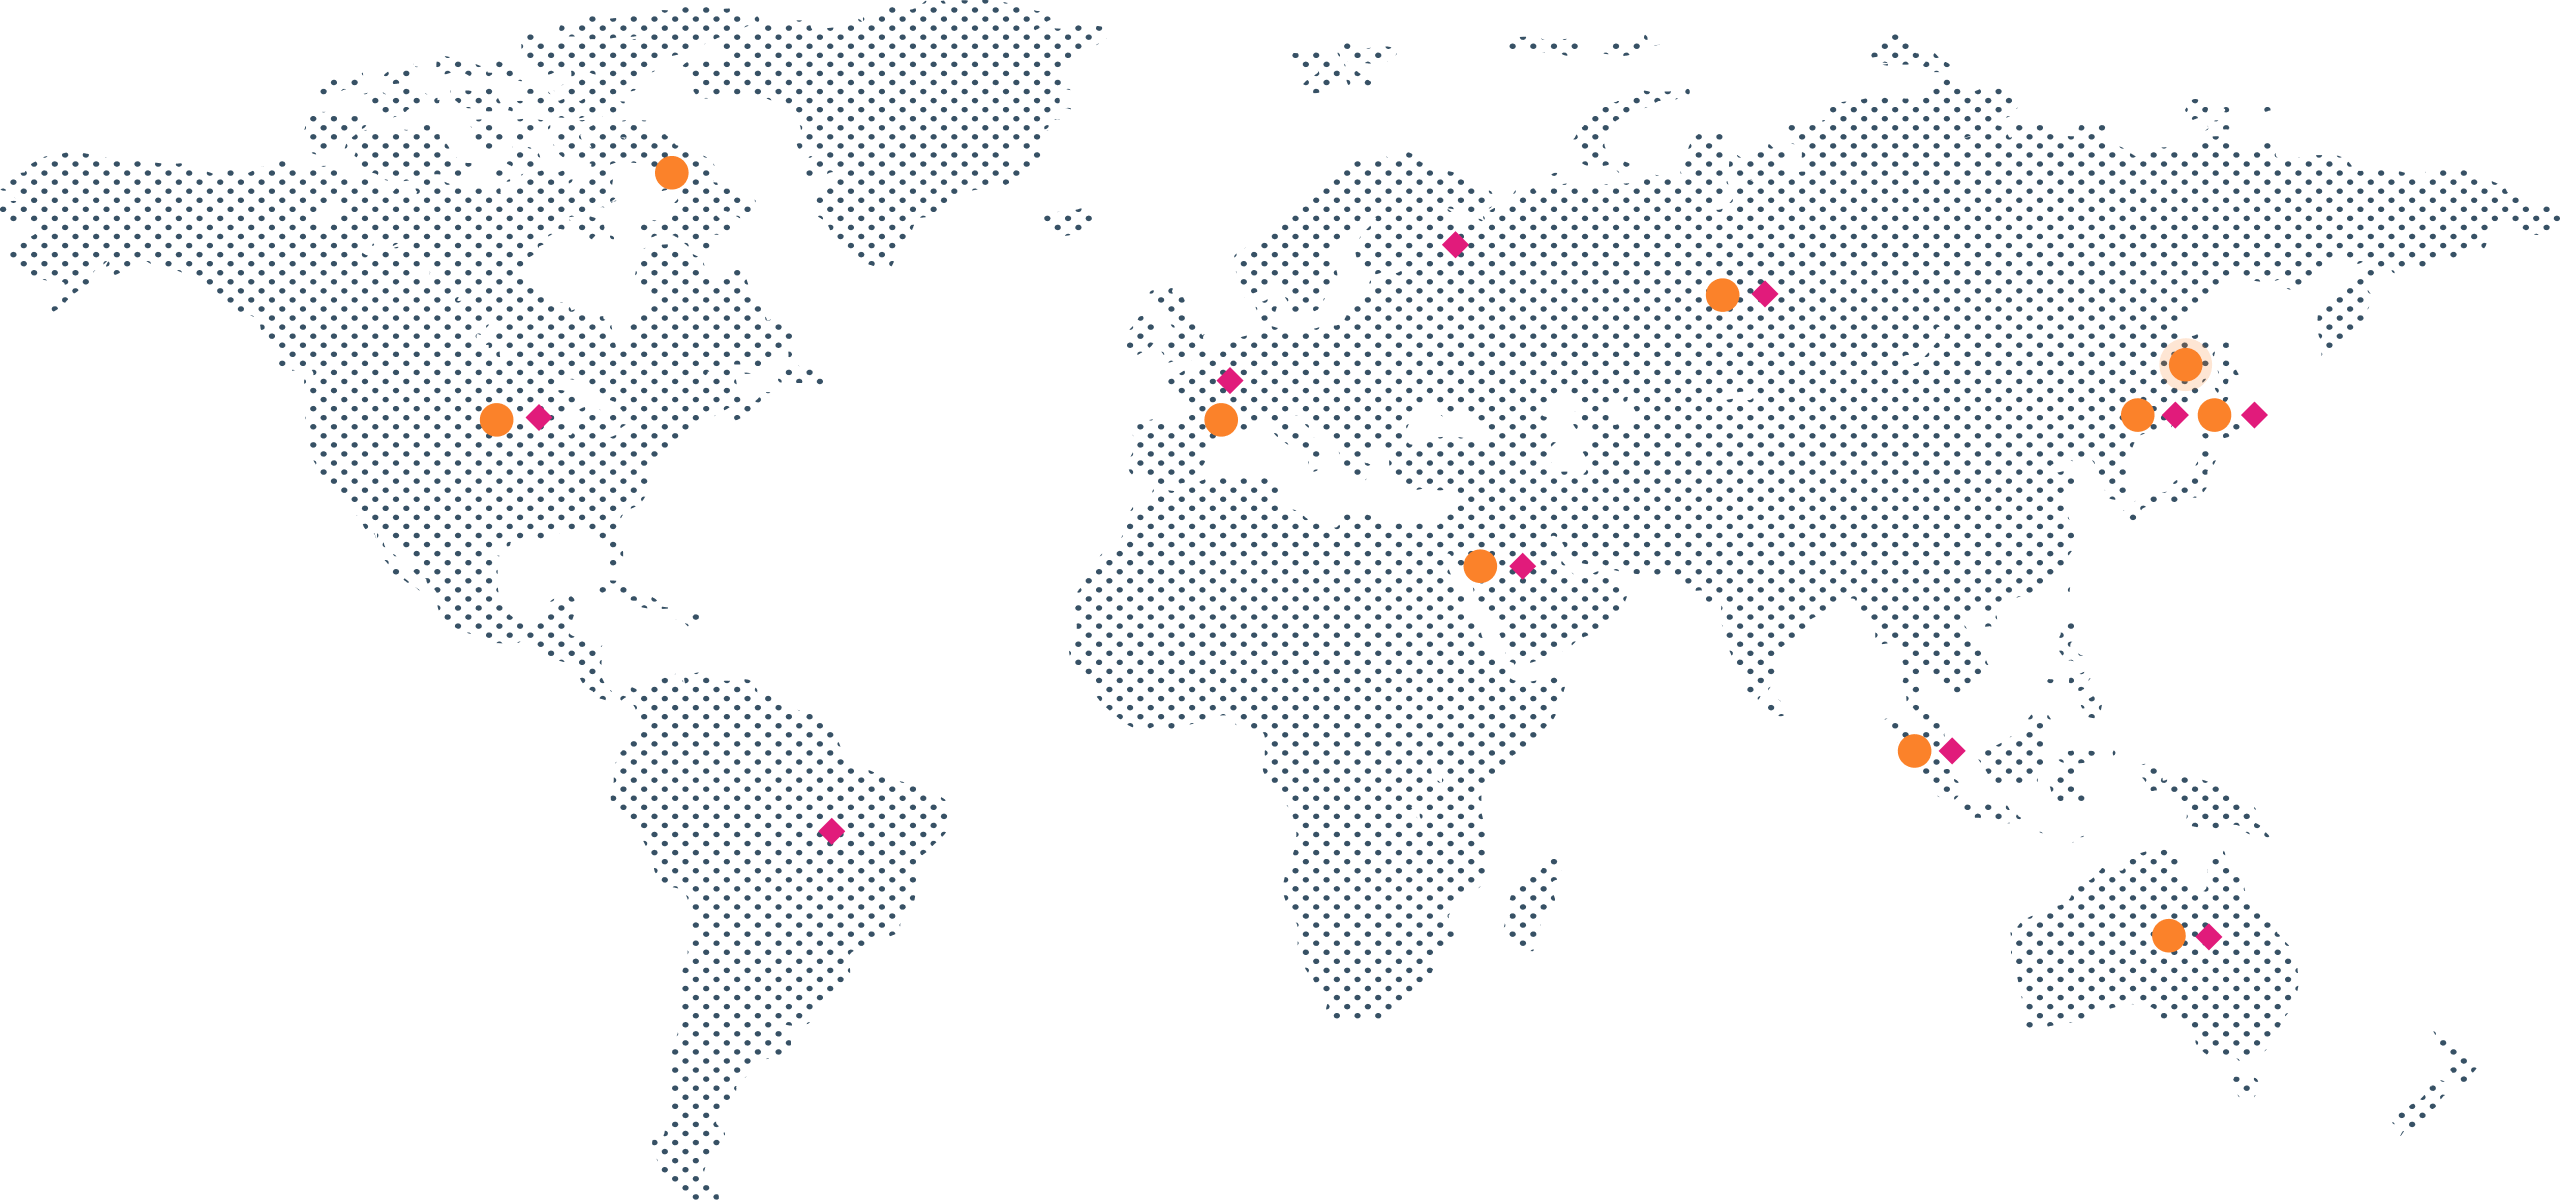
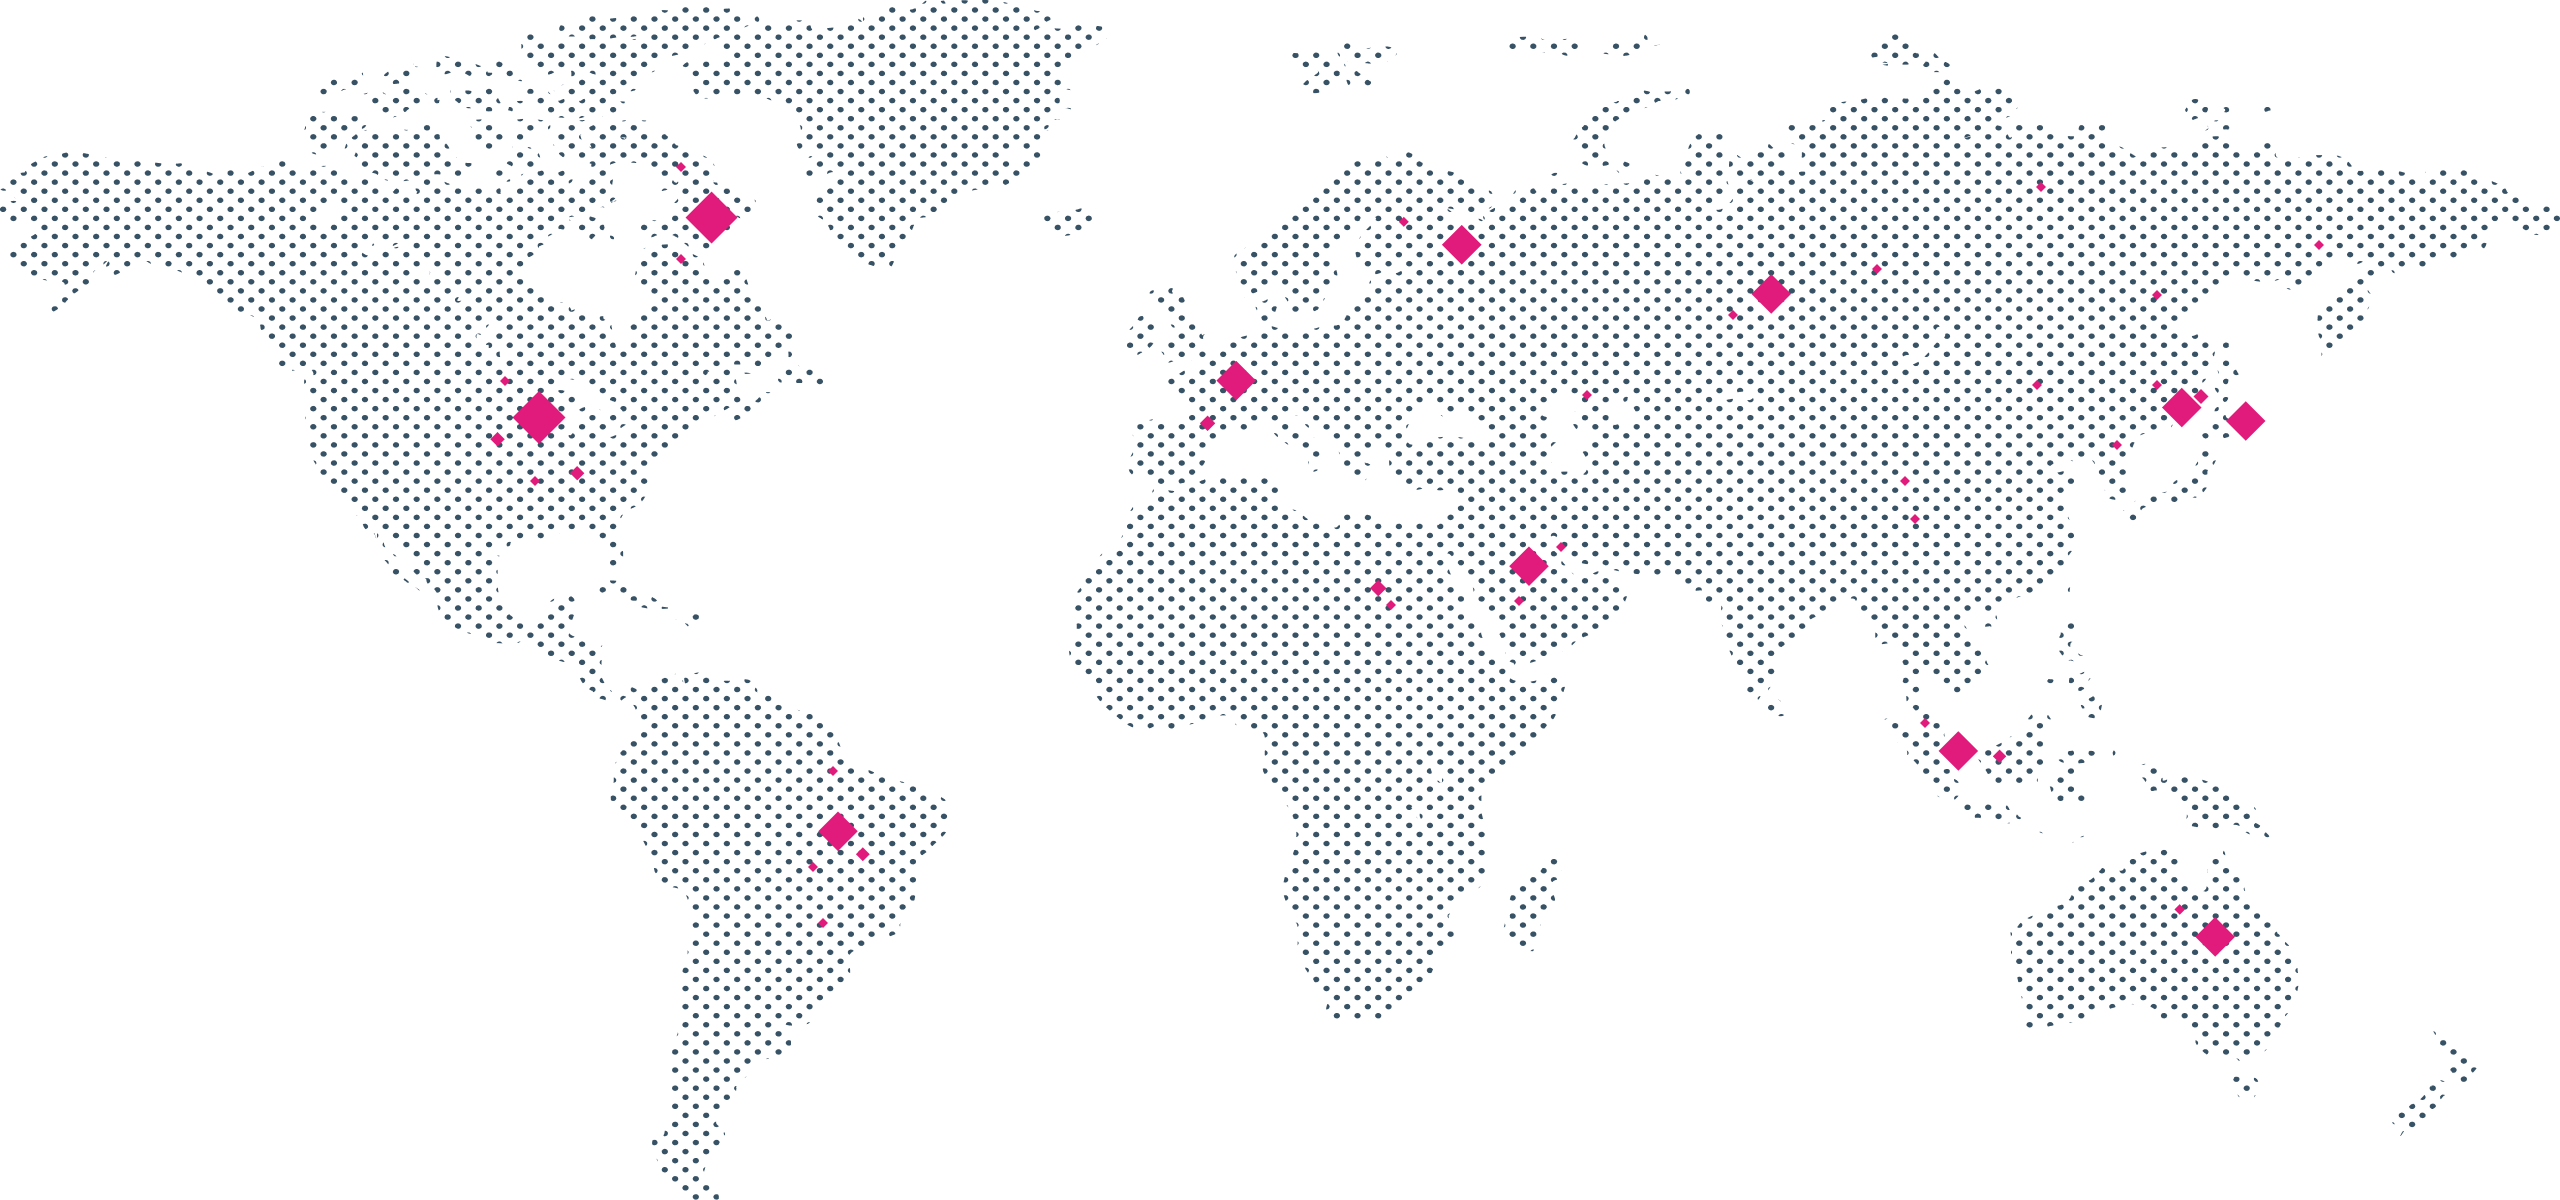
Update

diff --git a/style/style.css b/style/style.css
@@ -420,14 +420,13 @@ p {
 }
 .section-governed .govern {
   display: flex;
-  align-items: flex-start;
-  align-items: flex-end;
+  align-items: stretch;
   margin-bottom: 40px;
   padding-top: 30px;
 }
 .section-governed .govern dl {
   width: 25%;
-  height: 340px;
+  min-height: 340px;
   background-color: #1F2B32;
   margin-right: 20px;
   padding: 40px 20px;
@@ -449,9 +448,7 @@ p {
 }
 .section-governed .govern .govern-list dl {
   width: 100%;
-  height: 160px;
-}
-.section-governed .govern .govern-list dl:first-child {
+  min-height: calc(50% - 10px);
   margin-bottom: 20px;
 }
 
@@ -481,6 +478,12 @@ p {
 }
 .section-partners .partner li:nth-child(4n) {
   background-position: right center;
+}
+.section-partners .partner li.logo-bithumb {
+  background-image: url("../image/partners/bithumb.svg");
+}
+.section-partners .partner li.logo-bithumb:hover {
+  background-image: url("../image/partners/bithumb-hover.svg");
 }
 .section-partners .partner li.logo-polkadot {
   background-image: url("../image/partners/polkadot.svg");
@@ -827,14 +830,6 @@ p {
   .section-secure .data-list p {
     font-size: 14px;
     line-height: 24px;
-  }
-  .section-secure .data-text {
-    margin-top: 20px;
-    font-size: 12px;
-    line-height: 26px;
-  }
-  .section-secure .data-text li {
-    margin: 0 15px;
   }
 
   .section-more .content {

diff --git a/sass/style.scss b/sass/style.scss
@@ -437,13 +437,12 @@ p {
   }
   .govern {
     display: flex;
-    align-items: flex-start;
-    align-items: flex-end;
+    align-items: stretch;
     margin-bottom: 40px;
     padding-top: 30px;
     dl {
       width: 25%;
-      height: 340px;
+      min-height: 340px;
       background-color: #1F2B32;
       margin-right: 20px;
       padding: 40px 20px;
@@ -464,9 +463,7 @@ p {
       width: 50%;
       dl {
         width: 100%;
-        height: 160px;
-      }
-      dl:first-child {
+        min-height: calc(50% - 10px);
         margin-bottom: 20px;
       }
     }
@@ -499,6 +496,12 @@ p {
     }
     li:nth-child(4n) {
       background-position: right center;
+    }
+    li.logo-bithumb {
+      background-image: url('../image/partners/bithumb.svg');
+    }
+    li.logo-bithumb:hover {
+      background-image: url('../image/partners/bithumb-hover.svg');
     }
     li.logo-polkadot {
       background-image: url('../image/partners/polkadot.svg');
@@ -841,14 +844,6 @@ p {
       p {
         font-size: 14px;
         line-height: 24px;
-      }
-    }
-    .data-text {
-      margin-top: 20px;
-      font-size: 12px;
-      line-height: 26px;
-      li {
-        margin: 0 15px;
       }
     }
   }

diff --git a/index.html b/index.html
@@ -157,10 +157,6 @@
         <h2>More Opportunities In The Worldwide</h2>
         <ul class='data-list'>
           <li>
-            <h4>500,000+</h4>
-            <p>Bithumb Users</p>
-          </li>
-          <li>
             <h4>100,000+</h4>
             <p>Polkadot Users</p>
           </li>
@@ -170,13 +166,10 @@
           </li>
         </ul>
         <img src='image/map.png' />
-        <ul class='data-text'>
-          <li><img src="image/circle-orange.svg" />Bithumb Family</li>
-          <li><img src="image/diamond-pink.svg" />Polkadot community</li>
-        </ul>
       </div>
       <div class='section-partners'>
         <ul class='partner'>
+          <li class='logo-bithumb'></li>
           <li class='logo-polkadot'></li>
           <li class='logo-web3'></li>
           <li class='logo-parity'></li>
@@ -188,7 +181,6 @@
           <li class='logo-chainx'></li>
           <li class='logo-acala'></li>
           <li class='logo-phala'></li>
-          <li></li>
         </ul>
       </div>
     </div>
